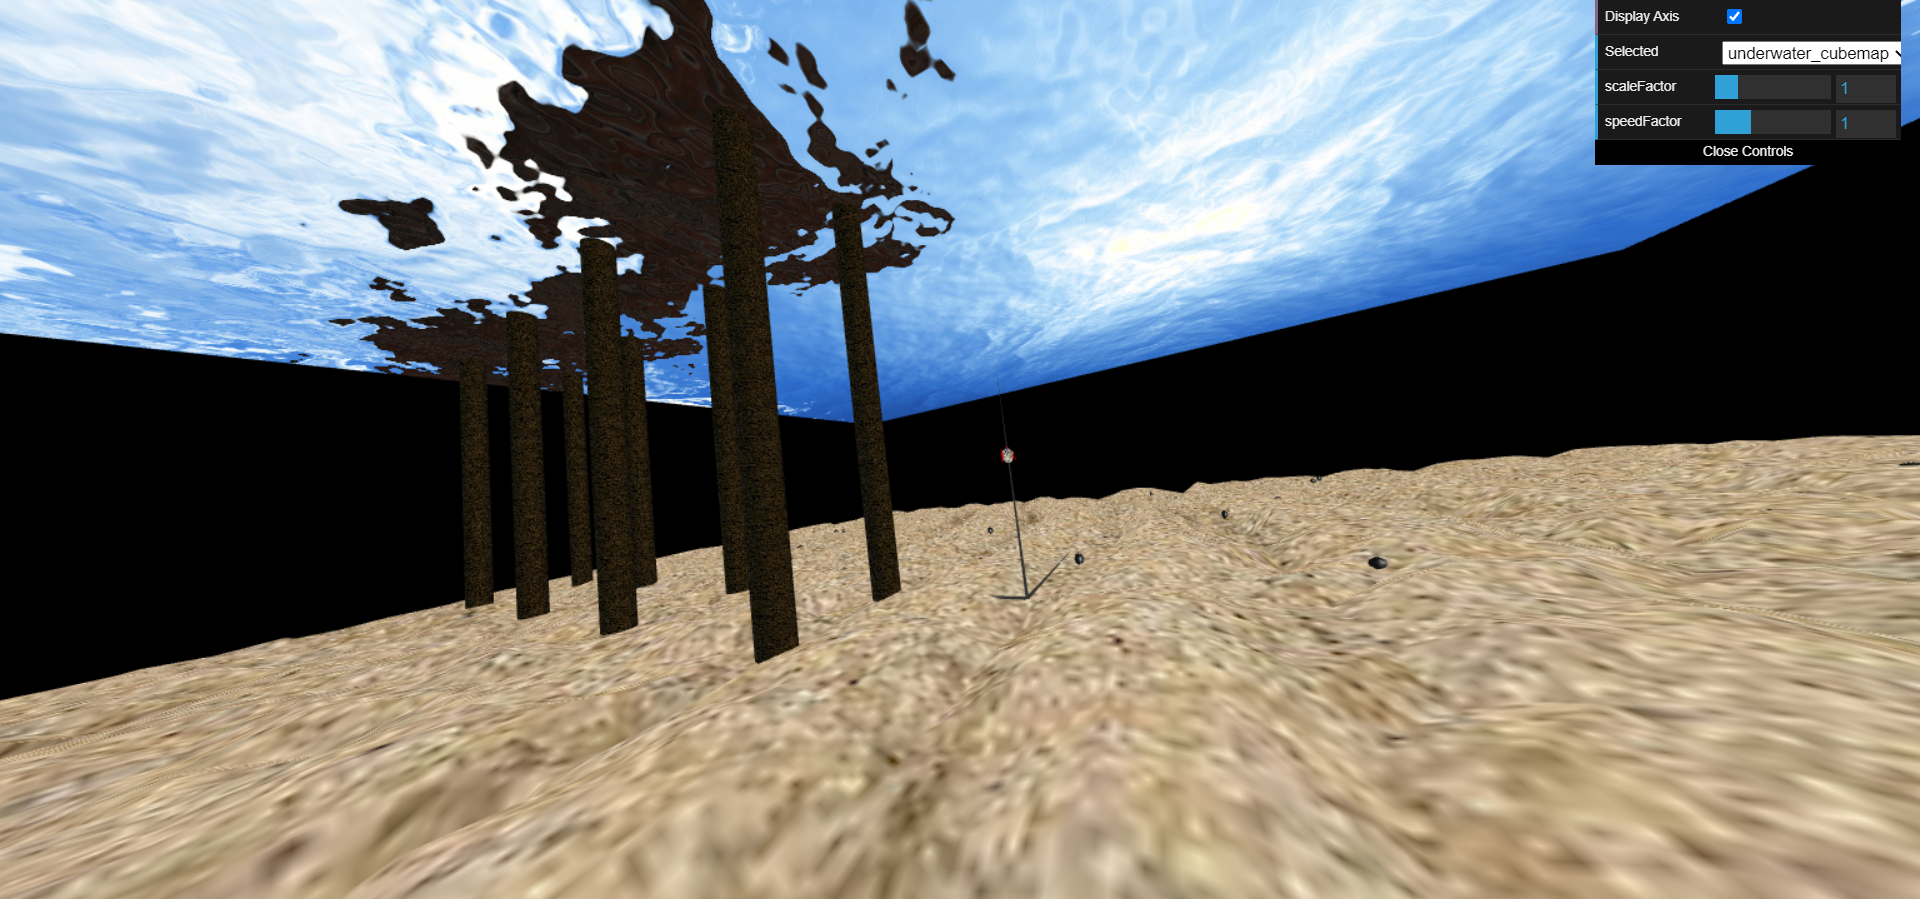
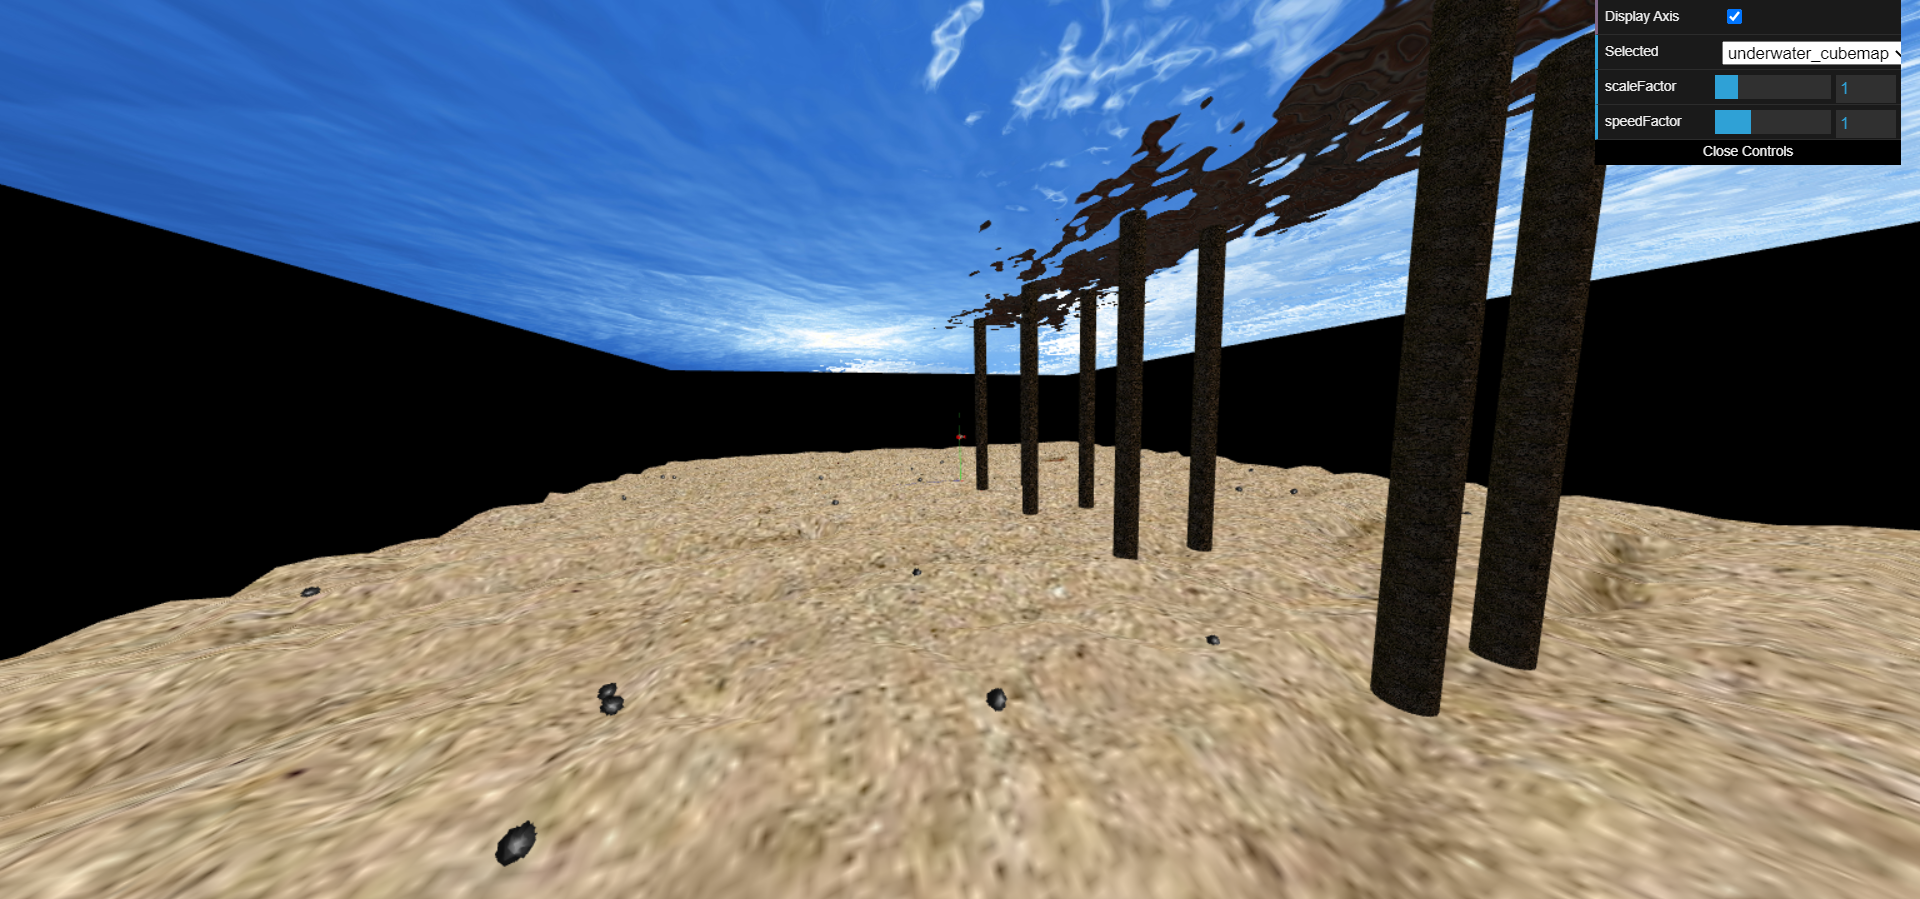
Improve README

diff --git a/project/MyScene.js b/project/MyScene.js
@@ -195,7 +195,7 @@ export class MyScene extends CGFscene {
         // Apply transformations corresponding to the camera position relative to the origin
         this.applyViewMatrix();
         
-        //this.defaultAppearance.apply();
+        this.defaultAppearance.apply();
         // Draw axis
         if (this.displayAxis)
             this.axis.display();

diff --git a/project/README.md b/project/README.md
@@ -45,33 +45,31 @@
 
 #### 5.1 Sea floor and fish nest
 
-- In this part, we based it in the 'texture3' shader from TP5. We had to create a plane with textures using an image with the colors ('sand.png') and an image with the map of height to create a sensation of ondulation ('sandMap.png'). 
-- Based on the intensities of the height's map, we added a displacement to the position of each point of the surface.
-- In order to have a limit for the height displacement, we had to pass a variable to the vertex shader so as to prevent that the sand's surface would not surpass the plane Y=1;
-- Futhermore, we added some shanding based on the height's map. We used an offset that darkened the colors according to the heights.
-- To create the fish nest, we added an image of a shell('shell.png') to the image of the colors('sand.png'), keeping in mind the maximum radius asked of 5 units.
-- For the ondulation of the floor to match the existence of the shell, we also added, in the same position, a darker zone to the height's map so as to create a hole. 
+- In this part, we based the sea_floor shader we created in the 'texture3' shader from TP5. To represent the sea floor, we created a plane with textures and the sea_floor shader, using an image with the actual texture to display ('sand.png') and an image with the height map to create a sensation of ondulation ('sandMap.png'). The height map was also used to create shades on the parts where the sand is lower.
+- We decided to use 50x50 divisions in the plane instead of the 20x20 suggested in the instructions, so that the height differences weren't so sharp. We pass uniform values to the shader (the offsetScale to scale the height of the sand, and the shadowScale to control its shade) so that they are easier to tweak. We chose the offsetScale carefuly so that it would not surpass the plane Y=1. However, because reaching Y=1 would reach heights that are too big, we decided to have a lower maximum height, which is closer to Y=0.5.
+- To create the fish nest, we added an image of a shell ('shell.png') to the image of the colors ('sand.png'), keeping in mind not to surpass maximum radius asked of 5 units. We created a class MyFishNest to represent the position and radius of the nest programatically, which will be useful in section 6 even though it doesn't draw anything right now.
+- For the ondulation of the floor to match the existence of the shell, we also added, in the same position, a darker zone to the height map (sandMap_with_shell.png) so as to create a hole.
 
 #### 5.2 Water surface
 
 - In order to create the water surface with ondulation and distorcion of the light, we based it in the 'water' shader from TP5.
-TODO
+- Because the vertices aren't distorted, the vertex shader (water_surface.vert) is actually very simple, only passing the texture coordinates to the fragment shader (water_surface.frag). This shader receives two uniform values: the distortionScale, which controls the amount of distortion, and the timeFactor, which is used to animate the distortion (it translates the distortion map).
+- As instructed, we used the distortion map to produce the amount of distortion at each point, mapping the values of R and G (from 0 to 1) to the offset (from -0.5 to 0.5) of the coordinates of the real texture to display.
 
 #### 5.3 Rocks
 
-- To create MyRock, we based it on MySphere. The main differences are: the vertices have limited random displacement to deform the sphere and create projections in the normal's direction.
-- In MyRockSet, a number of rocks are created in random positions, orientations and dimensions. 
-- In order to not surpass the limit of 0.2 units of radius, random number are obtained for each rock's dimensions while creating the rocks, limited by minimum and maximum radius. These values are used to later scale each rock.
+- To create MyRock, we used the code from MySphere as a starting point. We then added in the initBuffers function a random scale (limited to a parameterized range: minRadius and maxRadius) to each vertex of the sphere, in order to make it edgier.
+- In MyRockSet, a number of rocks are created in random positions, orientations and dimensions. The number of rocks to create and the limit positions they may occupy are parameterized in the constructor of MyRockSet. The scale is limited to the range 0.1 to 0.2 in order to respect the instructions given (using 1.0 as the maximum radius of the base rock).
+- Depending on its dimension, the rock will also suffer a translation on the y axis, to try to avoid it getting too buried in the sand.
+- The screenshot screenshots/proj-t7g03-4a.png shows a single rock with radius between 0.5 and 1.0. The rest of the screenshots in that section show the rocks as generated by MyRockSet, with their "real" size (no more than 0.2 units) and in the context of the scene.
 
 #### 5.4 MyPillar, cubemap and MySeaweed
 
-- To create MyPillar, we used the cylinder created in part A. We added a shader to look more realistic.
-- In order for the pillars to look like they belonged to the pier of the image of the surface, we had to translate them into a certain position and scale them to have the them reach the surface.<br/><br/>
-- For the cubemap, we added new textures ('images/underwater_cubemap/').<br/><br/>
-- So as to fill the scenery, we added groups of seaweeds. We created MySeaweed that represent a group of a certain number of seaweeds with radius, height and displacement limits.
-- The seaweeds are pyramids with different colours and dimensions, obtained randomly.
-- In MySeaweedSet, the groups of seaweeds are created with random positioning and number of seaweeds.
-
+- To create MyPillar, we used the cylinder created in part A. We added a texture that resembles a trunk (from http://www.cadhatch.com/seamless-bark-textures/4588167786) to look more realistic, with an appearance that makes it browner as the trunk has been underwater.
+- In order for the pillars to look like they belonged to the pier of the image of the surface, we had to translate them into positions below that pier and scale them to have the them reach the surface. As this scaling would otherwise make the texture very stretched out and ugly, we added a textureHeight parameter to the constructor, which scales the texture coordinates so that (with a REPEATING texture wrap) the texture would not be stretched and instead repeat all the way to the top of the cylinder. We added a total of 8 pillars.
+- For the cubemap, we added the given textures ('images/underwater_cubemap/') to the list of cubemaps in MyScene and set that one as the default. Because of there being so many cubemaps to choose from, loading all textures at the beggining started to get very slow, so we changed the code so that it would only load the textures of any given cubemap after selecting it for the first time.
+- So as to fill the scenery, we added groups of seaweeds. We created MySeaweed to represent a group of seaweed, with radius, height and displacement limits (how far can each element be from the center of the group) that are parameterized in the constructor. The seaweed uses MyPyramid as the base shape, each with different colors randomly generated but always close to green.
+- In MySeaweedSet, groups of seaweeds are created with random positioning, number of seaweeds and parameter limits of each group. In the constructor, there are parameters to limit those values.
 
 ## Screenshots
 
@@ -103,6 +101,7 @@ TODO
 ![Screenshot 4a](screenshots/proj-t7g03-4a.png)
 ![Screenshot 4b](screenshots/proj-t7g03-4b.png)
 ![Screenshot 4c](screenshots/proj-t7g03-4c.png)
+![Screenshot 4c](screenshots/proj-t7g03-4d.png)
 
 
 ### 5 - MyPillar
